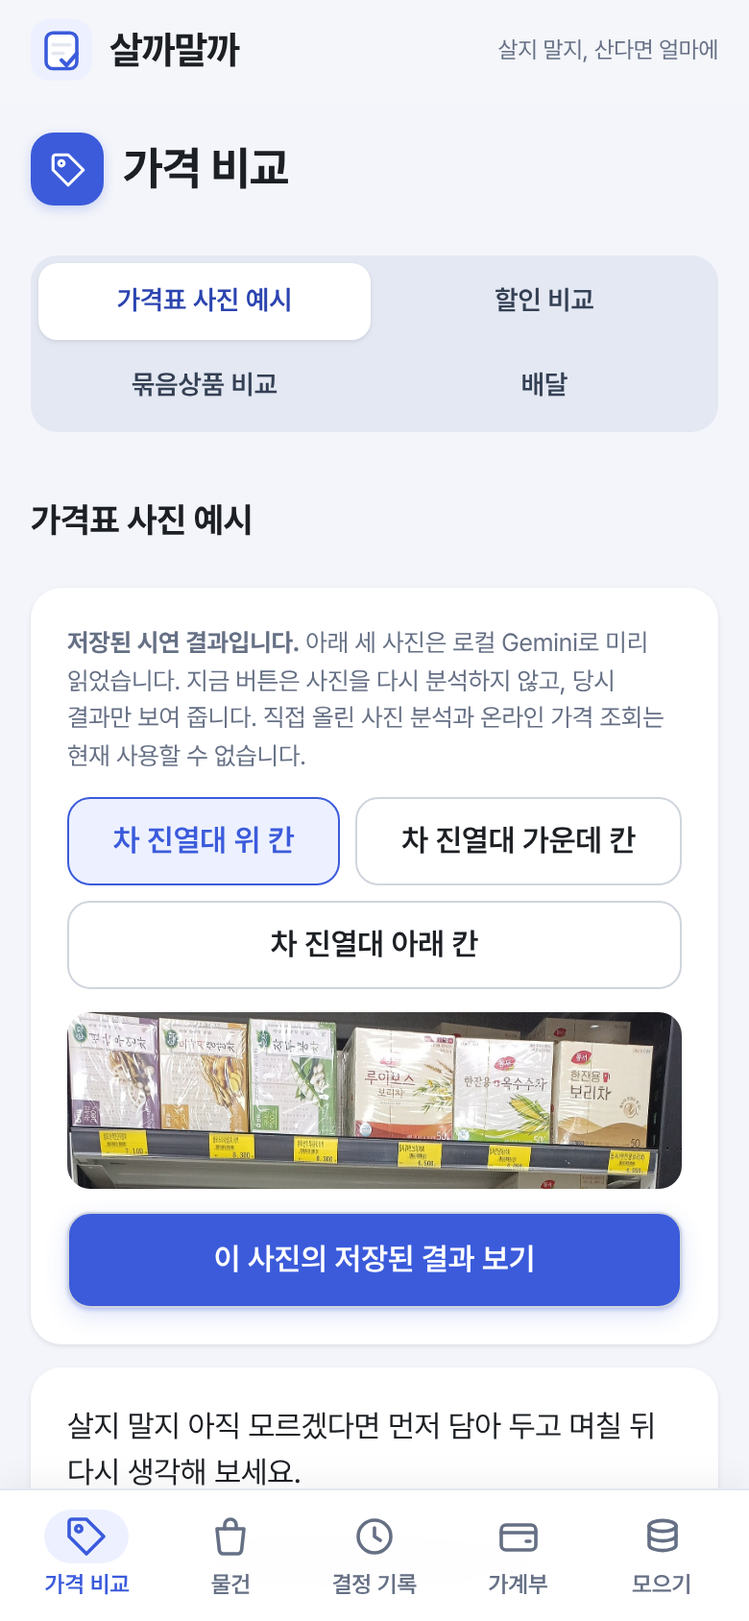
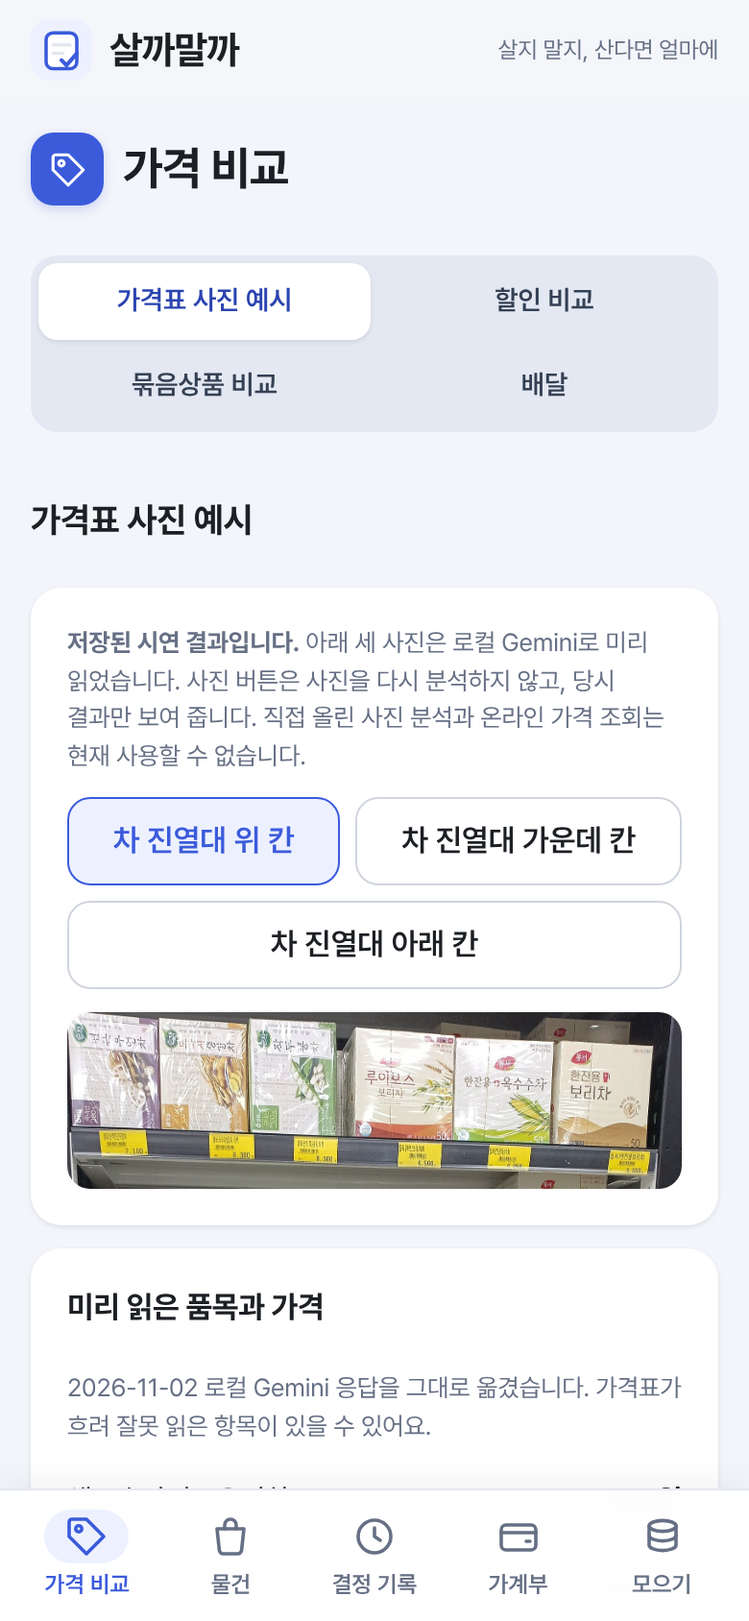
feat: show the saved photo-demo result open from the start
Maker request: the price-tag photo demo should be on as soon as the page
opens. The first photo's saved read result and Danawa snapshot are shown
immediately; picking another photo swaps to its saved result. The separate
'이 사진의 저장된 결과 보기' button is removed. Still no AI or price lookup.

PRD 0.92 F83, TODO 35-5, README/handoff/compare notes and screens updated,
capture script no longer clicks the removed button.

Checks: npm test 2014/2014, lint, tsc -b, eval tsc, PRD/TODO checks

Claude-Session: https://claude.ai/code/session_01S73EWn5NmGABmba2rb4uky

Changed region(s): [[0.0615, 0.7393, 0.9231, 0.9242], [0.2462, 0.4005, 0.3077, 0.4313]]

diff --git a/src/screens/ai/DemoPhotoCompare.tsx b/src/screens/ai/DemoPhotoCompare.tsx
@@ -48,7 +48,6 @@ const danawaChecks = [
 
 export function DemoPhotoCompare() {
   const [selected, setSelected] = useState(0)
-  const [revealed, setRevealed] = useState(false)
   const sample = samples[selected]
   const withCount = sample.items.filter((item) => item.count !== null)
   const cheapest = withCount.length ? [...withCount].sort((a, b) => a.price / a.count! - b.price / b.count!)[0] : null
@@ -56,14 +55,14 @@ export function DemoPhotoCompare() {
   return <section className="stack" aria-label="가격표 사진 예시 시연">
     <h3 className="section-title">가격표 사진 예시</h3>
     <div className="card stack">
-      <p className="note"><strong>저장된 시연 결과입니다.</strong> 아래 세 사진은 로컬 Gemini로 미리 읽었습니다. 지금 버튼은 사진을 다시 분석하지 않고, 당시 결과만 보여 줍니다. 직접 올린 사진 분석과 온라인 가격 조회는 현재 사용할 수 없습니다.</p>
+      <p className="note"><strong>저장된 시연 결과입니다.</strong> 아래 세 사진은 로컬 Gemini로 미리 읽었습니다. 사진 버튼은 사진을 다시 분석하지 않고, 당시 결과만 보여 줍니다. 직접 올린 사진 분석과 온라인 가격 조회는 현재 사용할 수 없습니다.</p>
       <div className="btn-row" role="group" aria-label="예시 사진 선택">
-        {samples.map((item, index) => <Button key={item.id} aria-pressed={selected === index} onClick={() => { setSelected(index); setRevealed(false) }}>{item.label}</Button>)}
+        {samples.map((item, index) => <Button key={item.id} aria-pressed={selected === index} onClick={() => setSelected(index)}>{item.label}</Button>)}
       </div>
       <img src={`${import.meta.env.BASE_URL}demo/${sample.id}.jpg`} alt={`${sample.label}의 차 상품과 가격표`} style={{ width: '100%', height: 'auto', display: 'block', borderRadius: '12px' }} />
-      <Button variant="primary" onClick={() => setRevealed(true)}>이 사진의 저장된 결과 보기</Button>
     </div>
-    {revealed ? <section className="card stack" aria-label="미리 읽은 품목과 가격 비교">
+    {/* 처음부터 고른 사진의 저장된 결과를 펼쳐 둔다 (F83, 2026-11-02 제작자 요청 "들어가자마자 켜져 있도록") */}
+    <section className="card stack" aria-label="미리 읽은 품목과 가격 비교">
       <h4 className="card-title">미리 읽은 품목과 가격</h4>
       <p className="note">2026-11-02 로컬 Gemini 응답을 그대로 옮겼습니다. 가격표가 흐려 잘못 읽은 항목이 있을 수 있어요.</p>
       <ul className="result-list demo-photo-results">{sample.items.map((item) => <li key={item.name}><span>{item.name}</span><strong>{formatWon(item.price)}{item.count ? ` · ${item.count}개입, 1개당 ${formatWon(Math.round(item.price / item.count))}` : ''}</strong></li>)}</ul>
@@ -77,6 +76,6 @@ export function DemoPhotoCompare() {
           <strong>사진 {formatWon(item.shelf)} → 다나와 {formatWon(item.online)}</strong>
         </li>)}</ul>
       </section> : <p className="note">이 사진의 상품은 다나와에서 동일한 포장을 확인하지 못해 온라인 가격을 적지 않았습니다.</p>}
-    </section> : null}
+    </section>
   </section>
 }

diff --git a/src/App.demo.test.tsx b/src/App.demo.test.tsx
@@ -12,14 +12,18 @@ it('공개 빌드의 예시 사진은 저장된 품목만 보여주고 AI 요청
   render(<App />)
   expect(screen.getByRole('tab', { name: '가격표 사진 예시' })).toHaveAttribute('aria-selected', 'true')
   await user.click(screen.getByRole('tab', { name: '가격표 사진 예시' }))
-  expect(screen.getByText(/지금 버튼은 사진을 다시 분석하지 않고/)).toBeInTheDocument()
-  await user.click(screen.getByRole('button', { name: '이 사진의 저장된 결과 보기' }))
+  expect(screen.getByText(/사진 버튼은 사진을 다시 분석하지 않고/)).toBeInTheDocument()
+  // 처음 열면 첫 사진의 저장된 결과가 이미 펼쳐져 있다 (F83, 2026-11-02 제작자 요청)
+  expect(screen.queryByRole('button', { name: '이 사진의 저장된 결과 보기' })).not.toBeInTheDocument()
   const results = within(screen.getByRole('region', { name: '미리 읽은 품목과 가격 비교' }))
   expect(results.getByText('샘표순작연근우엉차')).toBeInTheDocument()
   expect(results.getByText('7,100원')).toBeInTheDocument()
   expect(results.getByRole('heading', { name: '다나와 표시 최저가 비교' })).toBeInTheDocument()
   expect(results.getByRole('link', { name: /순작 연근우엉차 40T/ })).toHaveAttribute('href', 'https://prod.danawa.com/info/?pcode=4282090')
   expect(results.getByText('사진 7,100원 → 다나와 3,920원')).toBeInTheDocument()
+  // 다른 사진을 고르면 그 사진의 저장된 결과로 바로 바뀐다
+  await user.click(screen.getByRole('button', { name: '차 진열대 가운데 칸' }))
+  expect(within(screen.getByRole('region', { name: '미리 읽은 품목과 가격 비교' })).queryByText('샘표순작연근우엉차')).not.toBeInTheDocument()
   expect(fetch).not.toHaveBeenCalled()
   fetch.mockRestore()
 })

diff --git a/PRD.md b/PRD.md
@@ -1,9 +1,9 @@
 # 살까말까 PRD
 
-현재 개정: **0.91** · 가계부 달 이동·분류별 지출·날짜별 내역·이달 현황판(F84, AC203~AC208) (2026-11-02) · 0.90 · 제작자 피드백으로 그라데이션을 빼고 단색만 사용, 기능 변경 없음 (2026-11-02) · 0.89 · 색감 '세련된 블루'와 제목 아이콘·그라데이션 등 장식, 기능 변경 없음 (2026-11-02) · 0.88 · 가격 비교 입력 2열·결과 강조·물건 카드 구역 구분, 기능 변경 없음 (2026-11-02) · 0.87 · 하단 메뉴·분할 하위 탭·가계부 바로가기 등 배치와 모양 개선, 기능 변경 없음 (2026-11-02) · 0.86 · 문서 정정만: 공개 사이트의 AI 표시 문장을 F83에 맞추고 화면 전후 사진을 같은 조건으로 다시 찍음, 기능 변경 없음 (2026-11-02) · 0.85 · 가계부 달력 우선 배치와 저장되지 않는 예시, 공개 사진 시연 (2026-11-02)
+현재 개정: **0.92** · 가격표 사진 예시의 결과를 처음부터 펼침(F83) (2026-11-02) · 0.91 · 가계부 달 이동·분류별 지출·날짜별 내역·이달 현황판(F84, AC203~AC208) (2026-11-02) · 0.90 · 제작자 피드백으로 그라데이션을 빼고 단색만 사용, 기능 변경 없음 (2026-11-02) · 0.89 · 색감 '세련된 블루'와 제목 아이콘·그라데이션 등 장식, 기능 변경 없음 (2026-11-02) · 0.88 · 가격 비교 입력 2열·결과 강조·물건 카드 구역 구분, 기능 변경 없음 (2026-11-02) · 0.87 · 하단 메뉴·분할 하위 탭·가계부 바로가기 등 배치와 모양 개선, 기능 변경 없음 (2026-11-02) · 0.86 · 문서 정정만: 공개 사이트의 AI 표시 문장을 F83에 맞추고 화면 전후 사진을 같은 조건으로 다시 찍음, 기능 변경 없음 (2026-11-02) · 0.85 · 가계부 달력 우선 배치와 저장되지 않는 예시, 공개 사진 시연 (2026-11-02)
 
 작성일: 2026-10-11  
-버전: 0.91 · F84 가계부 보기(달 이동·세 칸 요약·분류별 지출·날짜별 내역 묶음·이달 현황판과 달별 모을 금액·지난달 비교), AC203~AC208(2026-11-02 제작자 "뱅크샐러드를 참고해 좋아 보이는 기능도") · 0.90 · 1장 디자인 방향에서 그라데이션 장식을 빼고 단색으로 정함(2026-11-02 제작자 "그라데이션은 없는 게 더 낫다") · 0.89 · 1장 디자인 방향의 강조색을 제작자가 고른 '세련된 블루'(#3b5bdb)로 바꾸고 장식 요소를 정함(2026-11-02) · 0.88 · 1장 디자인 방향에 비교 입력 2열·결과 강조·물건 카드 구분선 추가, 기능·문구 변경 없음(2026-11-02 제작자 "좀 더 개선") · 0.87 · 1장 디자인 방향에 하단 메뉴·분할 하위 탭·가계부 바로가기와 카드·입력 모양을 추가, 기능·문구 변경 없음(2026-11-02 제작자 요청) · 0.86 · 문서 정정만: 4장의 공개 사이트 AI 문장을 F83의 저장된 예시와 맞추고 화면 전후 사진의 촬영 조건을 적음, 기능 변경 없음(2026-11-02) · 0.85 · 가계부 달력 우선 배치와 저장되지 않는 예시, 공개 사진 시연(2026-11-02) · 0.83 · 고정비·모으기 화면 순서와 기본 접힘, 지원 제도 안내 및 발표 전후 비교를 보강(2026-11-02 제작자 요청) · 0.82 · 1차 이후 비AI 기능을 분야별로 대조하고 AI 재검증 기록을 연결(2026-11-02 제작자 요청) · 0.81 · 1차 이후 추가·수정 요구사항 표시와 화면 전후 비교(2026-11-02 제작자 요청) · 0.80 · 가격 비교·사진 첫 화면과 장보기·사기 전 입력 동선 보강(F31·F49·F75·F76·F79·F81, AC195~AC202; 2026-11-02 제작자 UX 요청) · 0.78 · 9장 자동 테스트 수를 AC01~AC194·1983개로 정정(2026-11-02, 28단계 보강 뒤) · 0.77 · 자잘한 지출에서 한 주 시도 선택·저장·완료 보강(F78, AC192~AC194; 2026-11-02 최종 점검) · 0.76 · 9장 자동 테스트 수를 AC01~AC191·1979개로 정정(2026-11-02, 25~27단계 구현 뒤) · 0.75 · 정기배송 결제일과 7일 비교 기간의 화면 문구를 명확히 함(2026-11-02 구현 뒤 점검) · 0.74 · 이번 주 집밥·정기배송 중복·작은 지출 시도·사기 전 요약·결제 전 확인·상황별 시작(F76~F81, AC180~AC191; 2026-11-02 제작자 “전부다 수행해보자”) · 0.73 · 9장 자동 테스트 수 정정: AC01~AC171·1952개 → AC01~AC179·1965개(2026-11-02, 결제 달력·장보기 초안 구현 뒤) · 0.72 · 30일 결제 달력·장보기 초안(F74~F75, AC172~AC179; 2026-11-02 제작자 "두개다 ㅅ", 세부는 9장 확인 전) · 0.71 · 9장 자동 테스트 수 정정: AC01~AC162·1938개 → AC01~AC171·1952개(2026-11-02, 사용 흐름 개선 구현 뒤) · 0.70 · F73 빠른 담기에 맞춰 첫 화면 설명을 짧게 고침(AC79, 2026-11-02 제작자 입력 부담 피드백) · 0.69 · F73 빠른 담기에서 F31 사진 초안의 이유 필수 안내와 AC54 기대를 선택 입력에 맞춤(2026-11-02, 23-4 구현 중) · 0.68 · 오늘 확인할 것·빠른 물건 담기(F72~F73, F01·F24·F30 보강, AC163~AC171; 2026-11-02 제작자 추가 기능 방향 동의, 세부는 9장 확인 전) · 0.67 · 9장 자동 테스트 수 정정: AC01~AC150·1917개 → AC01~AC162·1938개(2026-11-02, 절약·저축 4단계와 백업 화면 시험 뒤) · 0.66 · 1장 디자인 방향에 제작자 화면 피드백과 공통 그림·접힘 표시 반영(2026-11-02) · 0.65 · F71 친구 정산 화면·오류 문장 명시(2026-11-02, 4단계 Task 5, 9장 제작자 확인 대기) · 0.64 · F70 포인트·쿠폰 입력·오류 문장 명시(2026-11-02, 4단계 Task 4, 9장 제작자 확인 대기) · 0.63 · F69 카드 실적 입력·오류 문장과 해당 월 범위 명시(2026-11-02, 4단계 Task 3, 9장 제작자 확인 대기) · 0.62 · F68 공식 안내와 저장 상태의 화면 문장을 명시(2026-11-02, 4단계 Task 2, 9장 제작자 확인 대기) · 0.61 · 절약·저축 4단계 받을 수 있는 돈(F68~F71·F20 보강, AC151~AC162; 2026-11-02 설계 P4·제작자 요청, 새 결정은 9장 제작자 확인 전) · 0.60 · 9장 자동 테스트 수 정정: AC01~AC132·1880개 → AC01~AC150·1917개(2026-11-02, 절약·저축 3단계와 담기 화면 개선 뒤) · 0.59 · 담기 폼 접기·쓰는 곳 후보 펼치기(F24·F45·F51, AC149~AC150; 2026-11-02 제작자 화면 요청) · 0.58 · 0.57 버전 줄의 출처 문장을 9장 결정 목록 참조로 바로잡음(2026-11-01) · 0.57 · F66·F67 모으기 별도 금액 안내 문장 명시(2026-11-01, 3단계 Task 7 준비, 9장 제작자 확인 대기) · 0.56 · 절약·저축 3단계 사기 전·산 뒤(F61~F67, F20 보강, AC133~AC148; 2026-11-01 제작자 요청·설계 P3, 새 결정은 9장 제작자 확인 전) · 0.55 · 9장 자동 테스트 수 정정: AC01~AC116·1833개 → AC01~AC132·1880개(2026-11-01, 절약·저축 2단계 구현·전체 리뷰 뒤) · 0.54 · F60 배달 비교 화면 문장·최소 주문 미달 때 무료배달 비교 숨김 명시(2026-11-01, 2단계 Task 8, Claude 결정·제작자 확인 전) · 0.53 · F59 자잘한 지출 화면·저장 안내 문장 명시(2026-11-01, 2단계 Task 7 준비, Claude 결정·제작자 확인 전) · 0.52 · F58 있어서 안 산 성공 안내와 모으기 설명 명시(2026-11-01, 2단계 Task 6 준비, Claude 결정·제작자 확인 전) · 0.51 · F57 모으기의 대체 금액 문장과 빈 상태 기준 명시(2026-11-01, 2단계 Task 5 준비, Claude 결정·제작자 확인 전) · 0.50 · F54 화면·저장 안내 문장 명시(2026-11-01, 2단계 Task 2 준비, Claude 결정·제작자 확인 전) · 0.49 · 절약·저축 P2 집에 있는 것·자잘한 지출(F54~F60, F20 보강, AC117~AC132; 2026-11-01 제작자 요청과 설계 P2, 새 결정은 9장 제작자 확인 전) · 0.48 · 9장 최종 완성 기준 자동 테스트 수 정정: AC01~AC99·1741개 → AC01~AC116·1833개(2026-11-01, 절약·저축 1b 구현 뒤 전체 테스트) · 0.47 · F52 통신 비교 링크에서 스마트초이스를 제외함(2026-11-01, 20초 재확인에도 이 환경에서 접속하지 못함) · 0.46 · 절약·저축 1b: 요금 바뀜 기록(F50, 내가 낮춘 요금은 모으기의 줄어든 고정비에)·같은 곳에 쓰는 구독·멤버십(F51)·통신 약정과 요금 비교 링크(F52)·수도·가스·전기 요금(F53, 새 키 `buyornot.bills.v1`)·정기배송 주마다와 고정비 저장 안내 이름(F45 보강)·무료 체험 끝나기 전날 캘린더(F46 보강)·해지한 날과 요금 바뀐 날(F47 보강)·백업 v2에 공과금(F20 보강), AC100~AC116, AC84 기대 문장(2026-11-01, 설계 문서 P1b와 총괄 판정 R45·R46·R47을 따름. 새 동작은 모두 9장 '절약·저축 1b에서 정한 것'에 제작자 확인 전으로 있음) · 0.45 · 9장 최종 완성 기준의 자동 테스트 수 정정: AC01~AC80·1551개 → AC01~AC99·1741개, 9장 정하지 못한 것에 고정비 종류를 바꿀 때의 안내 질문 한 줄(2026-11-01, 절약·저축 1a 최종 검토 뒤) · 0.44 · 절약·저축 1a: 고정비 정리함(F45, 구독 탭을 넓힘)·무료 체험 끝나는 날(F46)·해지했어요(F47)·모으기(F48, 줄어든 고정비·참은 구매·옮긴 돈을 따로, 저축 목표)·주요 메뉴 다섯 개(F49)·백업 v2(F20 보강), AC81~AC99(2026-11-01, 설계 문서·GPT 53번 상담·빌더 점검 뒤 총괄 판정을 따름. 새 동작은 모두 9장 '절약·저축 1a에서 정한 것'에 제작자 확인 전으로 있음) · 0.43 · F44 캡처 크게 보기(R29-N1) 이유에 10/31 정정을 덧붙임: 근거로 적은 평가 A H1은 남아 있던 모의 응답이었다(2026-10-31, 평가 C) · 0.42 · F24 완료 기준에 AC80 연결(2026-10-31, 개발 2회차 최종 재검토) · 0.41 · 9장 최종 완성 기준의 자동 테스트 수 정정: AC01~AC79·1544개 → AC01~AC80·1551개(2026-10-31, 개발 2회차 전체 리뷰 뒤) · 0.40 · 담은 물건을 바로 결정하거나 지우면 담은 직후 안내와 '방금 담았어요.'도 사라짐(F24, 판정 R43, AC80, 2026-10-31 개발 2회차 전체 리뷰, Claude 결정·제작자 확인 전) · 0.39 · 9장 최종 완성 기준의 자동 테스트 수 정정: AC01~AC68·1465개 → AC01~AC79·1544개(2026-10-31, 평가 B P10, 판정 R38) · 0.38 · 평가 2회차(평가 B) 개선: Gemini가 429를 주면 `429 upstream_limited`와 새 실패 문구, 키가 없거나 비면 Gemini를 부르지 않고 `503 disabled`(10장 AI 공통·F43, 판정 R38-P6), F32 확인 상자 첫 줄 'AI가 읽은 내용'과 F32·F44 확인 상자 첫 줄을 상자 설명으로(R38-I8·R38-P9), 구매함으로 옮긴 직후 회고 안내 한 줄(F18, R38-N3), 빈 목록일 때 서비스 설명 문장을 담기 폼 위로(F24, R38-I3), AC60 기대값, AC75~AC79(2026-10-31, 평가 B, GPT 51번, Claude 결정, 제작자 확인 전) · 0.37 · F44 치수 읽기 문구(R29-I1)의 이유에 정정: 평가 때 본 사진에 없는 치수는 남아 있던 모의 응답이었음(2026-10-31, 평가 B 뒤 확인) · 0.36 · 다른 탭 때문에 담기가 반영되지 않으면 담은 직후 안내를 띄우지 않고 입력을 그대로 둠(F24, 판정 R30), 8장 기술 문장의 '서버를 쓰지 않음' 정정(2026-10-31, 개발 1회차 준비, Claude 결정·제작자 확인 전) · 0.35 · 평가 1회차 고칠 것: 9장 남은 결정을 한 줄씩 목록으로 바꾸고 빠진 결정을 채움(P5), 사진 초안 링크 비우기(F31, 판정 R29-P2), 담은 직후 새 카드로(F24, R29-P3), 치수 읽기 'AI가 읽은 내용'(F44, R29-I1)·캡처 크게 보기(F44, R29-N1), 결과 화면 문구(F31·F32·F06, R29-I2), AC69~AC74, 9장 테스트 수·AC63 시험용 값 정정(2026-10-31, 평가 1회차 결정, GPT 50번, Claude 결정·제작자 확인 전) · 0.34: Gemini 출력 길이 상한(가격표 6144·나머지 4096)과 치수를 글자로 받기(판정 R25~R27, 2026-10-31, GPT 49번, Claude 결정·제작자 확인 전) · 0.33: F44 2단계 표기 세부(모르는 축 '모름', 상태 이름 위치, 판정 R23, 2026-10-30, Claude 결정·제작자 확인 전) · 0.32: AC65 '다른 탭에서 결정된 뒤 저장'을 기존 여러 탭 규칙(AC37-2)과 맞춤(판정 R22, 2026-10-30, Claude 결정·제작자 확인 전) · 0.31: F43 '더 읽음' 문장의 조사를 AC63 예와 맞춤({상품을|표기를}, 2026-10-30 구현 중) · 0.30: F31 상품명이 비면 온라인 확인을 막고 "상품명을 적어 주세요"·상품명 칸 80자 상한(최종 리뷰, 2026-10-30, Claude 결정·제작자 확인 전) · 0.29: F43 채점 세부(단가 가격표 정답·최저가가 같은 허용 줄·모양이 다른 응답, 판정 R14·R15, 2026-10-30, Claude 결정·제작자 확인 전) · 0.28: F33 녹음 형식이 비면 보내지 않음(R11)·받아쓰는 중 메뉴 이동은 계속(R12)·담아 두면 녹음·받아쓰기를 끊음(R13)(2026-10-30, Claude 결정·제작자 확인 전) · 0.27: F33 받아쓴 말이 비면 첫 안내 줄을 뺌(판정 R10)·'을/를 채웠어요'(2026-10-30, Claude 결정·제작자 확인 전) · 0.26: 구현 중 정한 것 반영: 사진 고르기에 capture 없음, F31 진행 문구·결과 제목, F32 상품 0개 문장·단위를 고른 뒤 채울 값 다시 보이기·'개'를 고르면 계산용 개수 비움(2026-10-30, 판정 R7~R9, Claude 결정·제작자 확인 전) · 0.25: 앱 사진 대기 상한 45초 → 60초(요청 하나마다, 서버 55초 + 5초, 2026-10-30, GPT 45번, Claude 결정·제작자 확인 전) · 0.24: 1단계 이어서 F43 AI 성적표·F44 놓을 자리 확인(2026-10-29, GPT 37~41번 상담 반영) · 0.23: 중간 과제 AI 기능 1단계 명세(F31~F33·F35, 2026-10-28, GPT 33~36번 상담 반영) · 0.22까지: 4차 추가(고민 노트) + 다듬기 + 구독 이용 분석 1단계(넷플릭스 시청 기록 파일) + 카드·담기 폼 체크리스트 + 회고를 비슷한 기록에 연결 + 오늘의 고민으로 이동 + 묶음 비교에 한 달에 쓰는 양, 무료배송 탭 뺌(10/13)
+버전: 0.92 · F83 가격표 사진 예시는 처음부터 첫 사진 결과를 펼치고 '결과 보기' 버튼을 없앰(2026-11-02 제작자 요청) · 0.91 · F84 가계부 보기(달 이동·세 칸 요약·분류별 지출·날짜별 내역 묶음·이달 현황판과 달별 모을 금액·지난달 비교), AC203~AC208(2026-11-02 제작자 "뱅크샐러드를 참고해 좋아 보이는 기능도") · 0.90 · 1장 디자인 방향에서 그라데이션 장식을 빼고 단색으로 정함(2026-11-02 제작자 "그라데이션은 없는 게 더 낫다") · 0.89 · 1장 디자인 방향의 강조색을 제작자가 고른 '세련된 블루'(#3b5bdb)로 바꾸고 장식 요소를 정함(2026-11-02) · 0.88 · 1장 디자인 방향에 비교 입력 2열·결과 강조·물건 카드 구분선 추가, 기능·문구 변경 없음(2026-11-02 제작자 "좀 더 개선") · 0.87 · 1장 디자인 방향에 하단 메뉴·분할 하위 탭·가계부 바로가기와 카드·입력 모양을 추가, 기능·문구 변경 없음(2026-11-02 제작자 요청) · 0.86 · 문서 정정만: 4장의 공개 사이트 AI 문장을 F83의 저장된 예시와 맞추고 화면 전후 사진의 촬영 조건을 적음, 기능 변경 없음(2026-11-02) · 0.85 · 가계부 달력 우선 배치와 저장되지 않는 예시, 공개 사진 시연(2026-11-02) · 0.83 · 고정비·모으기 화면 순서와 기본 접힘, 지원 제도 안내 및 발표 전후 비교를 보강(2026-11-02 제작자 요청) · 0.82 · 1차 이후 비AI 기능을 분야별로 대조하고 AI 재검증 기록을 연결(2026-11-02 제작자 요청) · 0.81 · 1차 이후 추가·수정 요구사항 표시와 화면 전후 비교(2026-11-02 제작자 요청) · 0.80 · 가격 비교·사진 첫 화면과 장보기·사기 전 입력 동선 보강(F31·F49·F75·F76·F79·F81, AC195~AC202; 2026-11-02 제작자 UX 요청) · 0.78 · 9장 자동 테스트 수를 AC01~AC194·1983개로 정정(2026-11-02, 28단계 보강 뒤) · 0.77 · 자잘한 지출에서 한 주 시도 선택·저장·완료 보강(F78, AC192~AC194; 2026-11-02 최종 점검) · 0.76 · 9장 자동 테스트 수를 AC01~AC191·1979개로 정정(2026-11-02, 25~27단계 구현 뒤) · 0.75 · 정기배송 결제일과 7일 비교 기간의 화면 문구를 명확히 함(2026-11-02 구현 뒤 점검) · 0.74 · 이번 주 집밥·정기배송 중복·작은 지출 시도·사기 전 요약·결제 전 확인·상황별 시작(F76~F81, AC180~AC191; 2026-11-02 제작자 “전부다 수행해보자”) · 0.73 · 9장 자동 테스트 수 정정: AC01~AC171·1952개 → AC01~AC179·1965개(2026-11-02, 결제 달력·장보기 초안 구현 뒤) · 0.72 · 30일 결제 달력·장보기 초안(F74~F75, AC172~AC179; 2026-11-02 제작자 "두개다 ㅅ", 세부는 9장 확인 전) · 0.71 · 9장 자동 테스트 수 정정: AC01~AC162·1938개 → AC01~AC171·1952개(2026-11-02, 사용 흐름 개선 구현 뒤) · 0.70 · F73 빠른 담기에 맞춰 첫 화면 설명을 짧게 고침(AC79, 2026-11-02 제작자 입력 부담 피드백) · 0.69 · F73 빠른 담기에서 F31 사진 초안의 이유 필수 안내와 AC54 기대를 선택 입력에 맞춤(2026-11-02, 23-4 구현 중) · 0.68 · 오늘 확인할 것·빠른 물건 담기(F72~F73, F01·F24·F30 보강, AC163~AC171; 2026-11-02 제작자 추가 기능 방향 동의, 세부는 9장 확인 전) · 0.67 · 9장 자동 테스트 수 정정: AC01~AC150·1917개 → AC01~AC162·1938개(2026-11-02, 절약·저축 4단계와 백업 화면 시험 뒤) · 0.66 · 1장 디자인 방향에 제작자 화면 피드백과 공통 그림·접힘 표시 반영(2026-11-02) · 0.65 · F71 친구 정산 화면·오류 문장 명시(2026-11-02, 4단계 Task 5, 9장 제작자 확인 대기) · 0.64 · F70 포인트·쿠폰 입력·오류 문장 명시(2026-11-02, 4단계 Task 4, 9장 제작자 확인 대기) · 0.63 · F69 카드 실적 입력·오류 문장과 해당 월 범위 명시(2026-11-02, 4단계 Task 3, 9장 제작자 확인 대기) · 0.62 · F68 공식 안내와 저장 상태의 화면 문장을 명시(2026-11-02, 4단계 Task 2, 9장 제작자 확인 대기) · 0.61 · 절약·저축 4단계 받을 수 있는 돈(F68~F71·F20 보강, AC151~AC162; 2026-11-02 설계 P4·제작자 요청, 새 결정은 9장 제작자 확인 전) · 0.60 · 9장 자동 테스트 수 정정: AC01~AC132·1880개 → AC01~AC150·1917개(2026-11-02, 절약·저축 3단계와 담기 화면 개선 뒤) · 0.59 · 담기 폼 접기·쓰는 곳 후보 펼치기(F24·F45·F51, AC149~AC150; 2026-11-02 제작자 화면 요청) · 0.58 · 0.57 버전 줄의 출처 문장을 9장 결정 목록 참조로 바로잡음(2026-11-01) · 0.57 · F66·F67 모으기 별도 금액 안내 문장 명시(2026-11-01, 3단계 Task 7 준비, 9장 제작자 확인 대기) · 0.56 · 절약·저축 3단계 사기 전·산 뒤(F61~F67, F20 보강, AC133~AC148; 2026-11-01 제작자 요청·설계 P3, 새 결정은 9장 제작자 확인 전) · 0.55 · 9장 자동 테스트 수 정정: AC01~AC116·1833개 → AC01~AC132·1880개(2026-11-01, 절약·저축 2단계 구현·전체 리뷰 뒤) · 0.54 · F60 배달 비교 화면 문장·최소 주문 미달 때 무료배달 비교 숨김 명시(2026-11-01, 2단계 Task 8, Claude 결정·제작자 확인 전) · 0.53 · F59 자잘한 지출 화면·저장 안내 문장 명시(2026-11-01, 2단계 Task 7 준비, Claude 결정·제작자 확인 전) · 0.52 · F58 있어서 안 산 성공 안내와 모으기 설명 명시(2026-11-01, 2단계 Task 6 준비, Claude 결정·제작자 확인 전) · 0.51 · F57 모으기의 대체 금액 문장과 빈 상태 기준 명시(2026-11-01, 2단계 Task 5 준비, Claude 결정·제작자 확인 전) · 0.50 · F54 화면·저장 안내 문장 명시(2026-11-01, 2단계 Task 2 준비, Claude 결정·제작자 확인 전) · 0.49 · 절약·저축 P2 집에 있는 것·자잘한 지출(F54~F60, F20 보강, AC117~AC132; 2026-11-01 제작자 요청과 설계 P2, 새 결정은 9장 제작자 확인 전) · 0.48 · 9장 최종 완성 기준 자동 테스트 수 정정: AC01~AC99·1741개 → AC01~AC116·1833개(2026-11-01, 절약·저축 1b 구현 뒤 전체 테스트) · 0.47 · F52 통신 비교 링크에서 스마트초이스를 제외함(2026-11-01, 20초 재확인에도 이 환경에서 접속하지 못함) · 0.46 · 절약·저축 1b: 요금 바뀜 기록(F50, 내가 낮춘 요금은 모으기의 줄어든 고정비에)·같은 곳에 쓰는 구독·멤버십(F51)·통신 약정과 요금 비교 링크(F52)·수도·가스·전기 요금(F53, 새 키 `buyornot.bills.v1`)·정기배송 주마다와 고정비 저장 안내 이름(F45 보강)·무료 체험 끝나기 전날 캘린더(F46 보강)·해지한 날과 요금 바뀐 날(F47 보강)·백업 v2에 공과금(F20 보강), AC100~AC116, AC84 기대 문장(2026-11-01, 설계 문서 P1b와 총괄 판정 R45·R46·R47을 따름. 새 동작은 모두 9장 '절약·저축 1b에서 정한 것'에 제작자 확인 전으로 있음) · 0.45 · 9장 최종 완성 기준의 자동 테스트 수 정정: AC01~AC80·1551개 → AC01~AC99·1741개, 9장 정하지 못한 것에 고정비 종류를 바꿀 때의 안내 질문 한 줄(2026-11-01, 절약·저축 1a 최종 검토 뒤) · 0.44 · 절약·저축 1a: 고정비 정리함(F45, 구독 탭을 넓힘)·무료 체험 끝나는 날(F46)·해지했어요(F47)·모으기(F48, 줄어든 고정비·참은 구매·옮긴 돈을 따로, 저축 목표)·주요 메뉴 다섯 개(F49)·백업 v2(F20 보강), AC81~AC99(2026-11-01, 설계 문서·GPT 53번 상담·빌더 점검 뒤 총괄 판정을 따름. 새 동작은 모두 9장 '절약·저축 1a에서 정한 것'에 제작자 확인 전으로 있음) · 0.43 · F44 캡처 크게 보기(R29-N1) 이유에 10/31 정정을 덧붙임: 근거로 적은 평가 A H1은 남아 있던 모의 응답이었다(2026-10-31, 평가 C) · 0.42 · F24 완료 기준에 AC80 연결(2026-10-31, 개발 2회차 최종 재검토) · 0.41 · 9장 최종 완성 기준의 자동 테스트 수 정정: AC01~AC79·1544개 → AC01~AC80·1551개(2026-10-31, 개발 2회차 전체 리뷰 뒤) · 0.40 · 담은 물건을 바로 결정하거나 지우면 담은 직후 안내와 '방금 담았어요.'도 사라짐(F24, 판정 R43, AC80, 2026-10-31 개발 2회차 전체 리뷰, Claude 결정·제작자 확인 전) · 0.39 · 9장 최종 완성 기준의 자동 테스트 수 정정: AC01~AC68·1465개 → AC01~AC79·1544개(2026-10-31, 평가 B P10, 판정 R38) · 0.38 · 평가 2회차(평가 B) 개선: Gemini가 429를 주면 `429 upstream_limited`와 새 실패 문구, 키가 없거나 비면 Gemini를 부르지 않고 `503 disabled`(10장 AI 공통·F43, 판정 R38-P6), F32 확인 상자 첫 줄 'AI가 읽은 내용'과 F32·F44 확인 상자 첫 줄을 상자 설명으로(R38-I8·R38-P9), 구매함으로 옮긴 직후 회고 안내 한 줄(F18, R38-N3), 빈 목록일 때 서비스 설명 문장을 담기 폼 위로(F24, R38-I3), AC60 기대값, AC75~AC79(2026-10-31, 평가 B, GPT 51번, Claude 결정, 제작자 확인 전) · 0.37 · F44 치수 읽기 문구(R29-I1)의 이유에 정정: 평가 때 본 사진에 없는 치수는 남아 있던 모의 응답이었음(2026-10-31, 평가 B 뒤 확인) · 0.36 · 다른 탭 때문에 담기가 반영되지 않으면 담은 직후 안내를 띄우지 않고 입력을 그대로 둠(F24, 판정 R30), 8장 기술 문장의 '서버를 쓰지 않음' 정정(2026-10-31, 개발 1회차 준비, Claude 결정·제작자 확인 전) · 0.35 · 평가 1회차 고칠 것: 9장 남은 결정을 한 줄씩 목록으로 바꾸고 빠진 결정을 채움(P5), 사진 초안 링크 비우기(F31, 판정 R29-P2), 담은 직후 새 카드로(F24, R29-P3), 치수 읽기 'AI가 읽은 내용'(F44, R29-I1)·캡처 크게 보기(F44, R29-N1), 결과 화면 문구(F31·F32·F06, R29-I2), AC69~AC74, 9장 테스트 수·AC63 시험용 값 정정(2026-10-31, 평가 1회차 결정, GPT 50번, Claude 결정·제작자 확인 전) · 0.34: Gemini 출력 길이 상한(가격표 6144·나머지 4096)과 치수를 글자로 받기(판정 R25~R27, 2026-10-31, GPT 49번, Claude 결정·제작자 확인 전) · 0.33: F44 2단계 표기 세부(모르는 축 '모름', 상태 이름 위치, 판정 R23, 2026-10-30, Claude 결정·제작자 확인 전) · 0.32: AC65 '다른 탭에서 결정된 뒤 저장'을 기존 여러 탭 규칙(AC37-2)과 맞춤(판정 R22, 2026-10-30, Claude 결정·제작자 확인 전) · 0.31: F43 '더 읽음' 문장의 조사를 AC63 예와 맞춤({상품을|표기를}, 2026-10-30 구현 중) · 0.30: F31 상품명이 비면 온라인 확인을 막고 "상품명을 적어 주세요"·상품명 칸 80자 상한(최종 리뷰, 2026-10-30, Claude 결정·제작자 확인 전) · 0.29: F43 채점 세부(단가 가격표 정답·최저가가 같은 허용 줄·모양이 다른 응답, 판정 R14·R15, 2026-10-30, Claude 결정·제작자 확인 전) · 0.28: F33 녹음 형식이 비면 보내지 않음(R11)·받아쓰는 중 메뉴 이동은 계속(R12)·담아 두면 녹음·받아쓰기를 끊음(R13)(2026-10-30, Claude 결정·제작자 확인 전) · 0.27: F33 받아쓴 말이 비면 첫 안내 줄을 뺌(판정 R10)·'을/를 채웠어요'(2026-10-30, Claude 결정·제작자 확인 전) · 0.26: 구현 중 정한 것 반영: 사진 고르기에 capture 없음, F31 진행 문구·결과 제목, F32 상품 0개 문장·단위를 고른 뒤 채울 값 다시 보이기·'개'를 고르면 계산용 개수 비움(2026-10-30, 판정 R7~R9, Claude 결정·제작자 확인 전) · 0.25: 앱 사진 대기 상한 45초 → 60초(요청 하나마다, 서버 55초 + 5초, 2026-10-30, GPT 45번, Claude 결정·제작자 확인 전) · 0.24: 1단계 이어서 F43 AI 성적표·F44 놓을 자리 확인(2026-10-29, GPT 37~41번 상담 반영) · 0.23: 중간 과제 AI 기능 1단계 명세(F31~F33·F35, 2026-10-28, GPT 33~36번 상담 반영) · 0.22까지: 4차 추가(고민 노트) + 다듬기 + 구독 이용 분석 1단계(넷플릭스 시청 기록 파일) + 카드·담기 폼 체크리스트 + 회고를 비슷한 기록에 연결 + 오늘의 고민으로 이동 + 묶음 비교에 한 달에 쓰는 양, 무료배송 탭 뺌(10/13)
 제작자: 강승준  
 완성 목표일: 2026-10-17 (1주 이내)  
 중간 과제(인공지능 프로그래밍) 마감: 미정 (제작자 확인 필요)  
@@ -60,7 +60,7 @@
 
 **F82 가계부:** 수입·지출을 수동 입력하고 선택한 달의 수입·지출·차액과 내역을 표시한다. 입력 내역은 이 브라우저에 저장하고 삭제할 수 있다. 기존 고정비와 자잘한 지출은 별도 기록이므로 장부 합계에 자동 합산하지 않는다. 사용자가 같은 지출을 다시 입력하면 중복될 수 있음을 화면에 알린다. 기존 백업 판 1~3은 가계부가 빈 상태로 복원하고 판 4부터 가계부를 함께 복원한다. 계좌 간 옮긴 돈은 수입이나 지출로 계산하지 않는다. 가계부 탭은 펼친 30일 결제 달력을 맨 앞에 둔다. 고정비 기록이 없는 새 브라우저에는 저장되지 않는 예시 결제 4건을 달력에 보여 주고, 실제 고정비를 등록하면 그 예시는 사라진다. 가계부에도 예시 수입·지출을 저장하지 않고 보여 주며 첫 실제 입력 때 사라진다.
 
-**F83 공개 AI 예시:** 실시간 공개 AI가 동작하지 않는 동안 가격 비교의 첫 화면에 로컬 Gemini가 이미 읽은 차 진열대 사진 3장과 당시 품목·가격 결과를 표시한다. 첫 사진에는 2026-11-02에 다나와 상품 페이지에서 확인한 표시 최저가 4건과 출처를 결과 아래에 함께 제시한다. 이는 배송비·쿠폰을 뺀 과거 조회값이며 사진 속 포장과 같은 상품인지 재확인이 필요하다. 사진을 고르면 저장된 결과를 보여주되 새 AI 요청·온라인 가격 조회는 하지 않는다. 서로 다른 품목의 개당 가격은 참고만 하도록 안내한다. 음성 버튼도 녹음 대신 준비한 문장으로 폼 채우기만 시연하며, 두 예시를 실제 분석과 분명히 구분한다.
+**F83 공개 AI 예시:** 실시간 공개 AI가 동작하지 않는 동안 가격 비교의 첫 화면에 로컬 Gemini가 이미 읽은 차 진열대 사진 3장과 당시 품목·가격 결과를 표시한다. 첫 사진에는 2026-11-02에 다나와 상품 페이지에서 확인한 표시 최저가 4건과 출처를 결과 아래에 함께 제시한다. 이는 배송비·쿠폰을 뺀 과거 조회값이며 사진 속 포장과 같은 상품인지 재확인이 필요하다. 처음 열면 첫 사진의 저장된 결과를 이미 펼쳐 두고(2026-11-02 제작자 요청 "들어가자마자 켜져 있도록", 따로 누르는 '결과 보기' 버튼 없음), 다른 사진을 고르면 그 사진의 저장된 결과로 바꾸되 새 AI 요청·온라인 가격 조회는 하지 않는다. 서로 다른 품목의 개당 가격은 참고만 하도록 안내한다. 음성 버튼도 녹음 대신 준비한 문장으로 폼 채우기만 시연하며, 두 예시를 실제 분석과 분명히 구분한다.
 
 **F84 가계부 보기 (2026-11-02 제작자 요청 "가계부 앱(뱅크샐러드)을 참고해 디자인을 고치고 좋아 보이는 기능도 가져오자"):** 이미 적은 가계부 기록만으로 다음을 보여 준다. 저장 형식·백업 판은 바꾸지 않고, 은행·카드 연동이나 자동 수집은 하지 않는다(기록은 이 브라우저에만). ① 요약 카드의 '볼 달' 옆에 '이전 달'·'다음 달' 버튼을 두고 누르면 한 달씩 옮긴다(1월의 이전 달은 전년 12월). ② 수입·지출·차이를 세 칸으로 나란히 보인다. ⑤ '이달 현황판'(제작자 추가 요청 "월마다 들어오는 돈, 모으고 싶은 금액, 지출 내역을 하나의 가로 막대로"): 그 달 수입을 막대 전체로 두고 지출·모을 금액·남는 돈을 차례로 나눠 칠한다. 같은 내용을 막대 아래 글로 '수입 X원 중 지출 A원(a%) · 모을 금액 B원(b%) · 남는 돈 C원(c%)'처럼 보인다(비율은 수입 대비 반올림 정수 %). 모을 금액은 현황판의 '이번 달 모을 금액' 칸에 달마다 0원~10억 원 정수로 적어 저장하고, 비우고 저장하면 그 달 목표를 지운다. 지출+모을 금액이 수입보다 크면 남는 돈 대신 '수입보다 D원 많아요'를 보이고 막대는 넘친 만큼 잘라 그린다. 수입이 0원이면 막대 대신 '이 달 수입을 적으면 현황판이 채워져요.'를 보인다. 모을 금액은 가계부 기록(`buyornot.ledger.v1`)에 달별 값으로 함께 저장하므로 백업 판 4에 그대로 들어가고, 이 값이 없는 옛 기록·백업도 그대로 읽는다. 모을 금액은 목표일 뿐이며 실제로 옮긴 돈(모으기)과 합산하지 않는다. ⑥ 요약 카드 아래에 지난달 지출과 비교한 한 줄을 보인다: '지난달보다 N원 덜 썼어요' / 'N원 더 썼어요' / '지난달과 같아요'. 지난달 기록이 하나도 없으면 줄을 보이지 않는다. 예시 금액을 보여 줄 때도 보이지 않는다 ③ 지출이 있는 달에는 '분류별 지출' 카드에 지출 분류마다 금액과 그 달 지출 중 비율(반올림한 정수 %)을 금액이 큰 순서로 보인다. 수입만 있거나 기록이 없는 달에는 카드를 보이지 않는다. ④ 내역은 날짜별로 묶고 묶음 머리에 'M월 D일 (요일)'과 그날의 수입·지출 합계(0원인 쪽은 생략)를 보인다. 저장되지 않는 예시 금액에도 같은 화면을 쓴다
 

diff --git a/docs/handoff/클라우드_이어받기_2026-11-02.md b/docs/handoff/클라우드_이어받기_2026-11-02.md
@@ -6,7 +6,7 @@
 
 - 저장소: <https://github.com/lumos0107/BuyorNot> (Public). `main`과 `saving`은 2026-11-02의 `eb7be66`까지 push했다. 이 인계 문서를 추가한 커밋은 그 다음이다. 시작할 때 두 브랜치의 최신 HEAD를 다시 확인한다.
 - 실행 주소: <https://lumos0107.github.io/BuyorNot/>. GitHub Pages 배포 #44(`8484167`)에서 전체 테스트·빌드·배포가 성공했고 공개 화면의 사진 예시와 다나와 가격 4건을 확인했다. `eb7be66`은 문서 수정이다. 그 이후 배포 상태는 [Actions](https://github.com/lumos0107/BuyorNot/actions)에서 확인한다.
-- 가격 비교가 첫 메뉴다. 공개 빌드는 **가격표 사진 예시**가 첫 비교 탭이다. 버튼을 누르면 차 진열대 사진 3장의 저장된 로컬 Gemini 읽기 결과를 보여 준다. 첫 사진의 결과 아래에는 2026-11-02에 다나와 상품 페이지에서 확인한 표시 최저가 4건과 원문 링크가 있다. 배송비·쿠폰 제외, 포장 재확인 필요, 실시간 조회 아님을 화면에 표시했다.
+- 가격 비교가 첫 메뉴다. 공개 빌드는 **가격표 사진 예시**가 첫 비교 탭이다. 처음부터 첫 사진의 결과가 펼쳐져 있고 사진 버튼으로 차 진열대 사진 3장의 저장된 로컬 Gemini 읽기 결과를 바꿔 보여 준다. 첫 사진의 결과 아래에는 2026-11-02에 다나와 상품 페이지에서 확인한 표시 최저가 4건과 원문 링크가 있다. 배송비·쿠폰 제외, 포장 재확인 필요, 실시간 조회 아님을 화면에 표시했다.
 - `물건`에는 저장된 문장으로 폼을 채우는 예시 음성 버튼이 있다. 공개 사이트의 사진·음성 버튼은 AI나 마이크를 호출하지 않는다. 임의 사진 업로드와 실제 AI·다나와 자동 조회는 현재 공개 사이트에서 사용할 수 없다. 로컬 실험에서는 Gemini로 가격표를 읽었고, 별도 다나와 상품 선택 단계에서도 Gemini를 사용했다. [AI 평가 기록](../ai-eval.md)에 시험 범위와 한계가 있다.
 - `가계부`는 30일 결제 달력을 먼저 보여 준다. 입력 전 예시 금액은 저장되지 않는다. 기존 고정비·공과금·자잘한 지출을 관련 메뉴로 모았다.
 

diff --git a/README.md b/README.md
@@ -82,7 +82,7 @@
 
 **교수님이 공개 링크에서 직접 사진을 올리거나 음성을 녹음해 AI 분석을 시험할 수는 없습니다.** Cloudflare Worker와 Gemini 키를 설정했지만 실제 공개 사진 요청이 상위 서버 오류로 실패했습니다. 호출 한도를 고려해 공개 Worker의 AI를 껐고, 원인 조사는 이후 개선 과제로 남겼습니다. 직접 입력으로 하는 가격 비교와 가계부 등은 정상 사용할 수 있습니다.
 
-공개 화면은 `가격 비교 → 가격표 사진 예시`에서 시작합니다. 차 진열대 사진 3장 중 하나를 고르고 `이 사진의 저장된 결과 보기`를 누르면 **미리 저장된 상품명·사진 가격·개당 가격**이 나타납니다. `물건 → 물건 담기 → 예시 음성 결과 채우기`는 미리 준비한 문장(‘무선 헤드폰 8만 원, 통학할 때 쓰려고 해요’)을 폼에 넣습니다. 두 버튼은 Gemini나 마이크를 호출하지 않습니다. 임의의 사진 업로드·음성 녹음·온라인 최저가 자동 조회는 보류 상태입니다.
+공개 화면은 `가격 비교 → 가격표 사진 예시`에서 시작합니다. 처음 열면 첫 사진의 **미리 저장된 상품명·사진 가격·개당 가격**과 다나와 조회값이 이미 펼쳐져 있고, 다른 사진 버튼을 누르면 그 사진의 저장된 결과로 바뀝니다. `물건 → 물건 담기 → 예시 음성 결과 채우기`는 미리 준비한 문장(‘무선 헤드폰 8만 원, 통학할 때 쓰려고 해요’)을 폼에 넣습니다. 두 버튼은 Gemini나 마이크를 호출하지 않습니다. 임의의 사진 업로드·음성 녹음·온라인 최저가 자동 조회는 보류 상태입니다.
 
 아래 사진은 [Wikimedia Commons의 CC0 차 진열 사진](https://commons.wikimedia.org/wiki/File:Various_Teas_from_South_Korea.jpg)을 잘라 쓴 조정용 자료(`rt01`)입니다. 같은 사진을 **① 로컬 앱에서 실제 Gemini로 읽은 화면**과 **② 공개 사이트가 그날 저장한 응답을 다시 보여 주는 화면**으로 나눠 실었습니다. ②는 버튼을 누를 때마다 새로 분석한 결과가 아닙니다.
 

diff --git a/TODO.md b/TODO.md
@@ -1,6 +1,6 @@
 # 살까말까 개발 Todo
 
-기준: [PRD v0.91](./PRD.md)
+기준: [PRD v0.92](./PRD.md)
 제작자: 강승준  
 목표일: 2026-10-17  
 상태: 1차 실습 제출본(v1)은 2026-10-13 완료. 중간 과제 작업본은 14~35단계 구현·자동 검사 완료(`saving`·`main` 브랜치, GitHub Pages 배포 완료). 36단계는 제출용 README 사진·문서 대조, 37단계는 기능을 유지한 디자인·배치 개선, 38단계는 가계부 앱을 참고한 가계부 보기(F84). 13-4~13-7 구독 분석과 제작자 판정·실기기 확인·AI 서버 배포는 남아 있음.
@@ -715,6 +715,7 @@
 - [x] **35-1** 공개 가격 비교 첫 화면을 가격표 사진 예시로 바꾸고 다른 비교 탭은 유지
 - [x] **35-2** 첫 사진의 저장된 OCR 가격 아래에 다나와 표시 최저가 4건, 조회일, 상품 페이지 링크를 추가
 - [x] **35-3** 배송비·쿠폰 제외, 포장 확인 필요, 실시간 조회 아님을 화면과 README에 명시
+- [x] **35-5** (2026-11-02 제작자 "들어가자마자 켜져 있도록") 첫 사진의 저장된 결과를 처음부터 펼치고 '이 사진의 저장된 결과 보기' 버튼을 없앰. 사진 버튼을 고르면 그 사진의 결과로 바로 바뀜
 - [x] **35-4** 첫 화면을 다시 캡처하고 공개 배포 화면에서 확인. GitHub Pages 배포 #44(`8484167`)에서 사진 예시와 다나와 가격 4건 확인
 
 ## 36단계 중간 과제 제출용 README 사진·문서 대조 (2026-11-02 사용자 요청)

diff --git a/docs/midterm_compare/README.md b/docs/midterm_compare/README.md
@@ -50,7 +50,7 @@
 
 로컬 AI 서버에서는 2026-11-02 [CC0 차 진열 사진](https://commons.wikimedia.org/wiki/File:Various_Teas_from_South_Korea.jpg)의 조정용 사례 `rt01`([사진](../../public/demo/rt01.jpg))을 실제 Gemini로 읽었다. [사진을 고른 로컬 화면](07-ai-read-current.png)과 [실제 응답으로 채운 수정 칸](08-ai-result-current.png)에 상품명 `샘표순작연근우엉차`와 가격 `7100`이 보인다. 사진의 흐린 가격표 등은 잘못 읽을 수 있어 이 화면만으로 정확도를 주장하지 않는다.
 
-공개 사이트에서는 실시간 Gemini 연결이 작동하지 않아 세 사진의 **저장된 결과**만 보여 준다. 사진 버튼을 누를 때 AI 호출이나 온라인 가격 조회는 일어나지 않는다.
+공개 사이트에서는 실시간 Gemini 연결이 작동하지 않아 세 사진의 **저장된 결과**만 보여 준다. 처음 열면 첫 사진의 결과가 펼쳐져 있고, 다른 사진 버튼을 누를 때도 AI 호출이나 온라인 가격 조회는 일어나지 않는다.
 
 | 저장된 읽기 결과 | 2026-11-02 다나와 표시 최저가 |
 | :---: | :---: |
